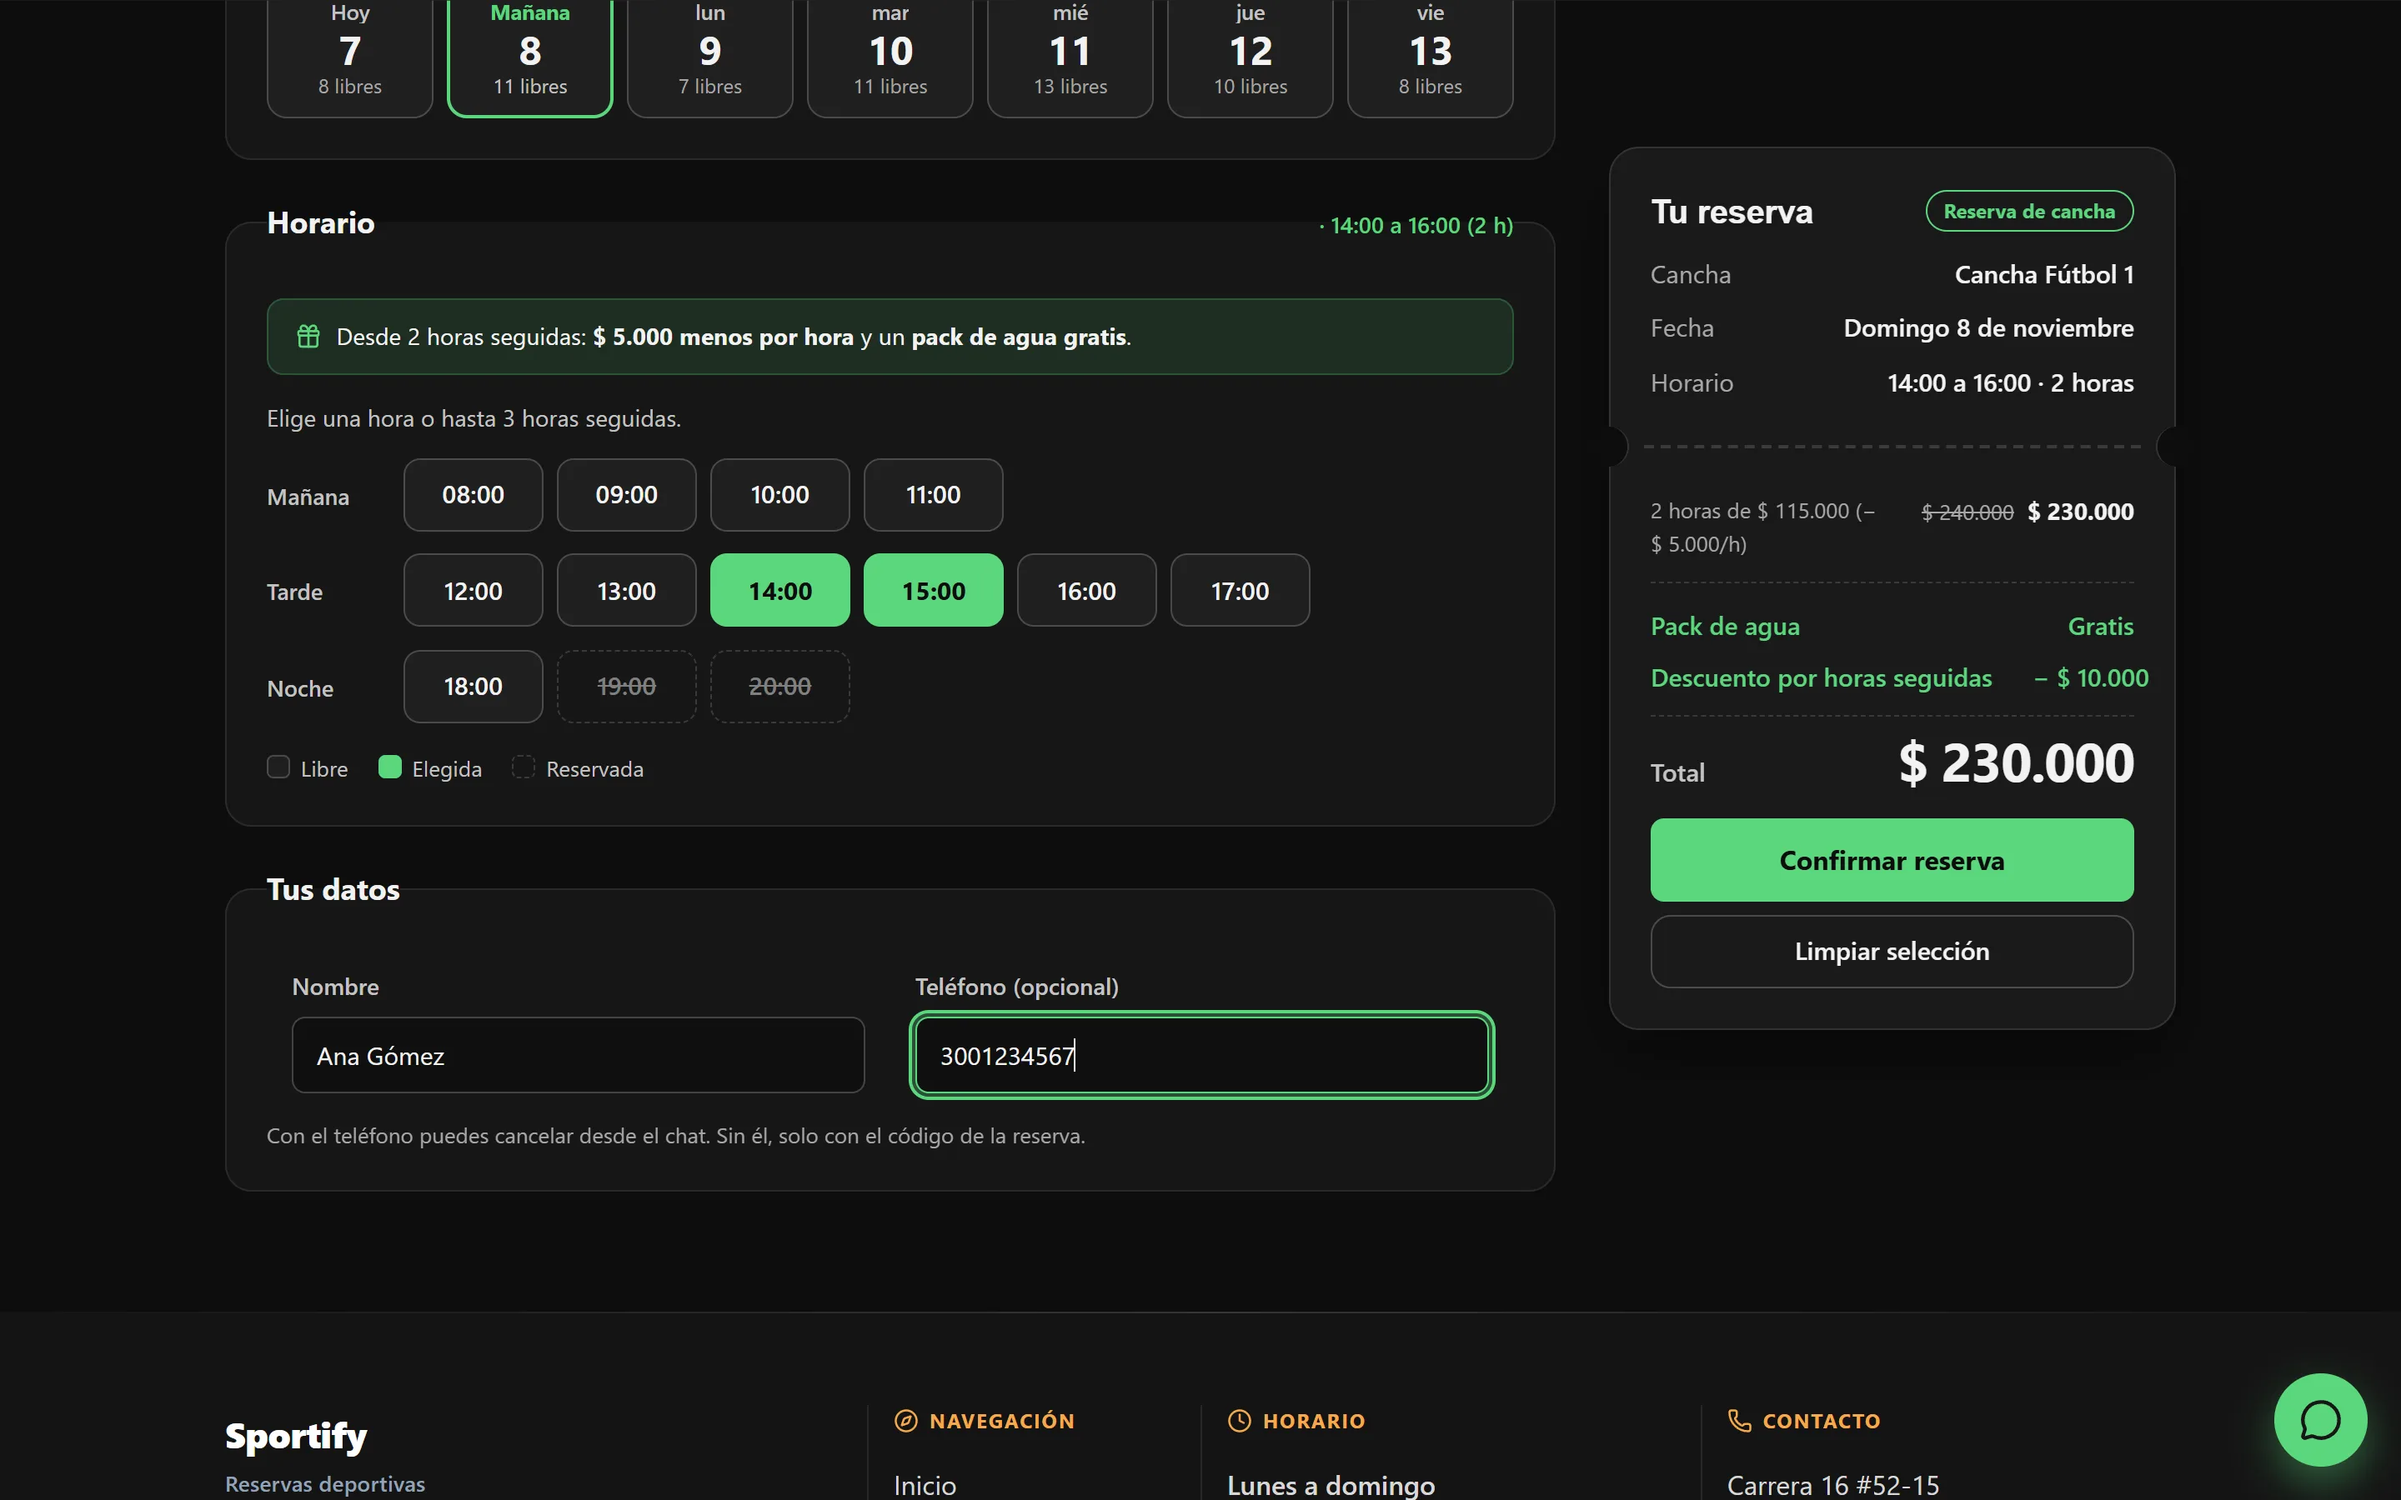
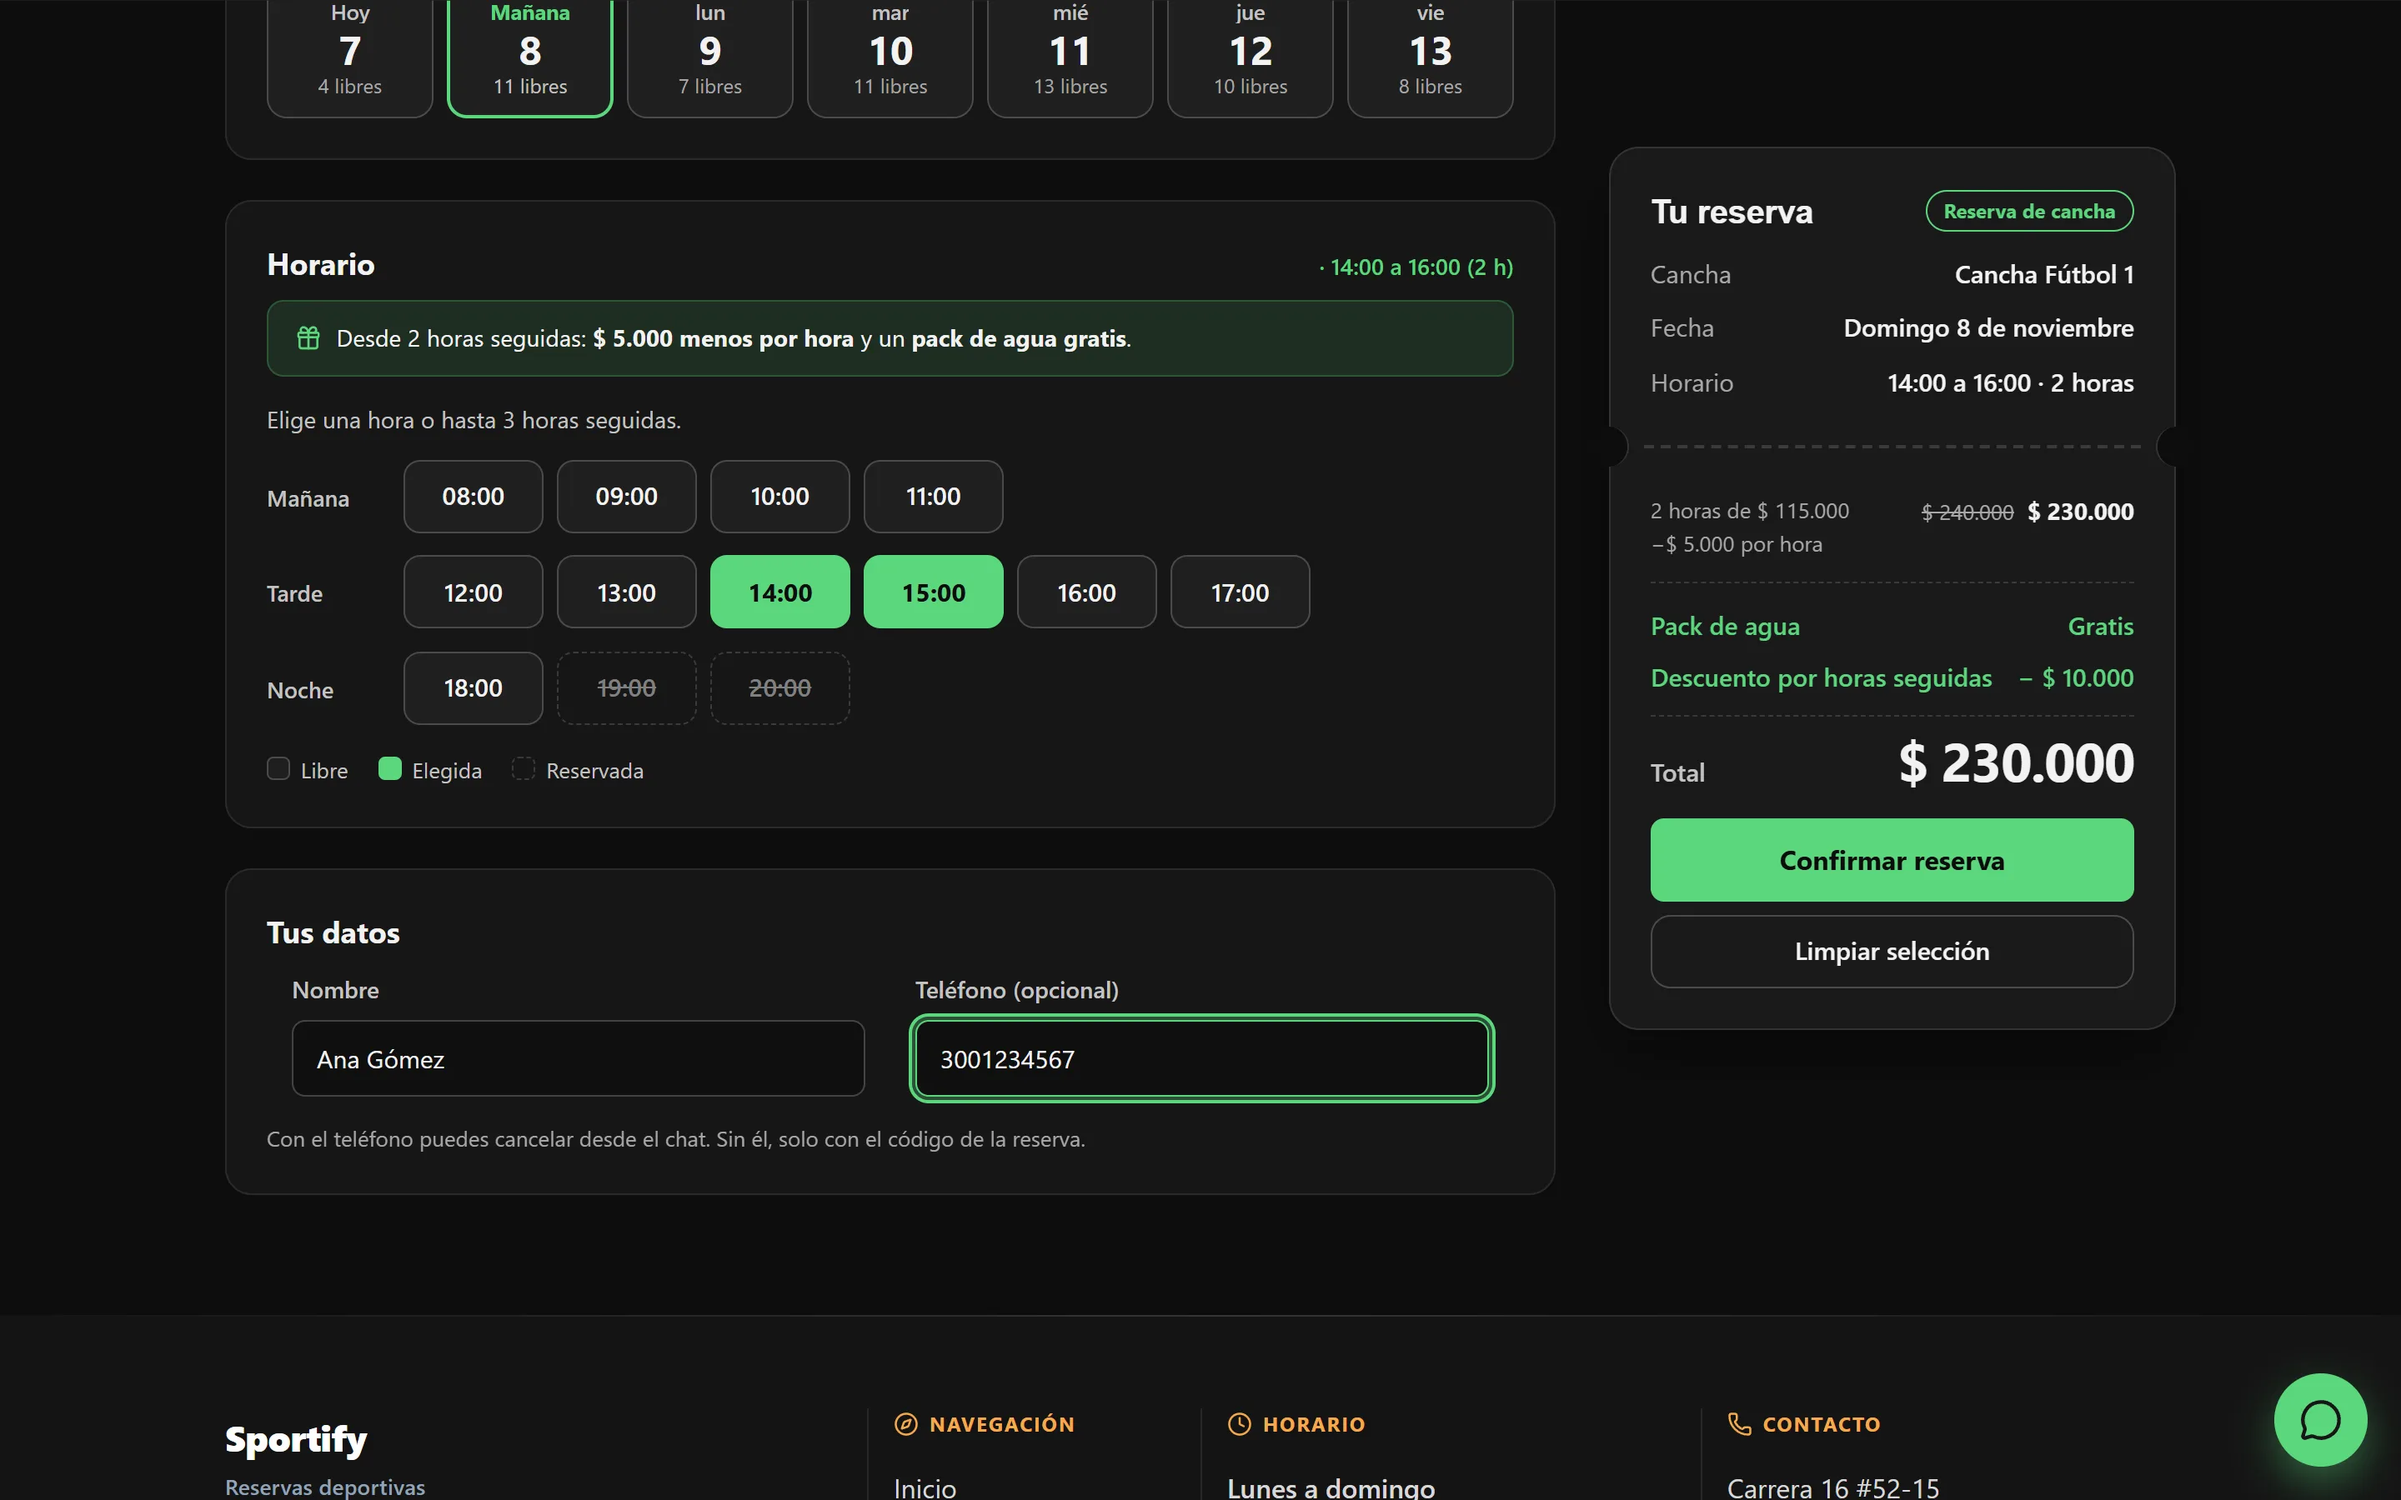
fix: saca los títulos del borde de las tarjetas y ajusta el descuento del comprobante

diff --git a/src/components/reservas/VoucherReserva.jsx b/src/components/reservas/VoucherReserva.jsx
@@ -198,8 +198,11 @@ function VoucherReserva({
                           {lineas.length === 1 && !torneo
                             ? `${horasLinea} ${horasLinea === 1 ? 'hora de' : 'horas de'} ${formatoPrecio.format(l.precioHoraFinal)}`
                             : `${horasLinea} h × ${formatoPrecio.format(l.precioHoraFinal)}`}
-                          {l.descuentoHora > 0 &&
-                            ` (−${formatoPrecio.format(l.descuentoHora)}/h)`}
+                          {l.descuentoHora > 0 && (
+                            <span className="voucher-reserva__linea-descuento">
+                              {`−${formatoPrecio.format(l.descuentoHora)} por hora`}
+                            </span>
+                          )}
                         </span>
                       </div>
                       <div className="voucher-reserva__linea-precio">

diff --git a/src/components/reservas/FormularioReserva.css b/src/components/reservas/FormularioReserva.css
@@ -44,12 +44,20 @@
   padding: 0;
 }
 
+/* A rendered legend sits on the fieldset border; floating it keeps it
+   inside the card, and the next element clears it. */
 .formulario-reserva__campo legend {
+  float: left;
+  width: 100%;
   font-weight: 700;
   font-size: 1.125rem;
   color: var(--reserva-texto, #f2f2f2);
   margin-bottom: 1rem;
   padding: 0;
+}
+
+.formulario-reserva__campo legend + * {
+  clear: both;
 }
 
 .formulario-reserva__legend-horario {

diff --git a/src/components/reservas/VoucherReserva.css b/src/components/reservas/VoucherReserva.css
@@ -233,9 +233,18 @@
   font-weight: 600;
 }
 
+.voucher-reserva__fila--ahorro .voucher-reserva__etiqueta {
+  flex-shrink: 1;
+  min-width: 0;
+}
+
 .voucher-reserva__valor--ahorro {
   white-space: nowrap;
-  margin-left: 12px;
+  flex-shrink: 0;
+}
+
+.voucher-reserva__linea-descuento {
+  display: block;
 }
 
 .voucher-reserva__fila--total {
